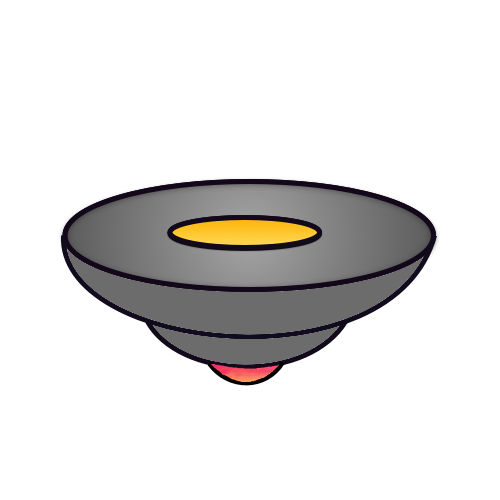
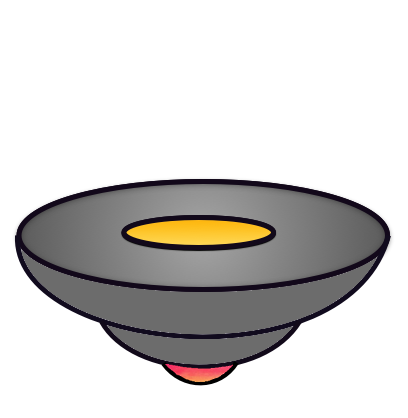
more client gameScene GUI components

Changed region(s): [[0.0294, 0.3421, 0.9706, 0.933]]

diff --git a/src/hangman/ClientFx.java b/src/hangman/ClientFx.java
@@ -11,6 +11,7 @@ import javafx.scene.control.Button;
 import javafx.scene.control.Label;
 import javafx.scene.control.TextArea;
 import javafx.scene.image.Image;
+import javafx.scene.image.ImageView;
 import javafx.scene.layout.*;
 import javafx.scene.paint.Color;
 import javafx.scene.paint.ImagePattern;
@@ -32,6 +33,7 @@ public class ClientFx extends Application {
     boolean started = false;
 
     private int numLives = 5;
+    private String word = "welcome";
     private Scene startScene, gameScene, endScene;
     private StartScene ss = new StartScene();
     private GameScene gs = new GameScene();
@@ -103,6 +105,10 @@ public class ClientFx extends Application {
     private Client createClient(String IP, int portIn, Stage primaryStage) {
         return new Client(IP, portIn, data -> {
             Platform.runLater(() -> {
+
+                if(data.toString().split(" ")[0].equals("WORD: ")){
+                    word = data.toString().split(" ")[1];
+                }
                 switch (data.toString()) {
                     case "CONNECTION":
                         ss.header.setText("CONNECTED TO SERVER");
@@ -134,6 +140,9 @@ public class ClientFx extends Application {
                         started = false;
                         primaryStage.setScene(this.startScene);
                         break;
+                    case "START":
+                        numLives = 5;
+                        primaryStage.setScene(this.gameScene);
                 }
             });
         });
@@ -257,8 +266,14 @@ public class ClientFx extends Application {
         private HBox row2;
         private HBox row3;
 
+        private HBox wordDisplay;
+
+        private VBox bottomBox;
+
         private Label spaceship;
         private ArrayList<Image> ssImageList;
+
+        private Label header;
 
         public GameScene(){
             gamePane = new BorderPane();
@@ -266,25 +281,41 @@ public class ClientFx extends Application {
             gameBackground = new Background(new BackgroundFill(new ImagePattern(gameBackgroundImage), CornerRadii.EMPTY, Insets.EMPTY));
             gamePane.setBackground(gameBackground);
             initSpaceshipImages();
+            initWordDisplay();
             initKeyboard();
-            scene = new Scene(gamePane, 900, 600);
+            this.bottomBox = new VBox(10, this.wordDisplay, this.keyboardBox);
+            gamePane.setBottom(bottomBox);
+            scene = new Scene(gamePane, 800, 600);
+        }
+
+        public void initWordDisplay(){
+            this.wordDisplay = new HBox(10);
+            for(int i = 0; i < word.length(); i++){
+                Label character = new Label(word.charAt(i)+ "");
+                character.setTextFill(Color.MIDNIGHTBLUE);
+                character.setFont(Font.font("Courier", FontWeight.EXTRA_BOLD, 33));
+                character.setAlignment(Pos.CENTER);
+                character.setPrefSize(40, 40);
+                character.setBackground(new Background(new BackgroundFill(Color.LEMONCHIFFON, new CornerRadii(5), Insets.EMPTY)));
+                this.wordDisplay.getChildren().add(character);
+            }
+            this.wordDisplay.setAlignment(Pos.CENTER);
         }
 
         public void initSpaceshipImages(){
-            spaceship = new Label();
-            spaceship.setPrefSize(300, 300);
-            spaceship.setAlignment(Pos.BOTTOM_CENTER);
-            spaceship.setPadding(new Insets(0, 0, 20, 0));
-            ssImageList = new ArrayList<>();
+            this.spaceship = new Label();
+            this.spaceship.setAlignment(Pos.BOTTOM_CENTER);
+            this.ssImageList = new ArrayList<>();
 
             for(int i = 0; i < 7; i++){
                 Image spaceShipImage = new Image("spaceship" + (i+1) + ".png");
-                ssImageList.add(spaceShipImage);
+                this.ssImageList.add(spaceShipImage);
             }
-            ImagePattern spaceshipFill = new ImagePattern(ssImageList.get((numLives-5)));
-            Background spaceshipBackground = new Background(new BackgroundFill(spaceshipFill, CornerRadii.EMPTY, Insets.EMPTY));
-            spaceship.setBackground(spaceshipBackground);
-            gamePane.setCenter(spaceship);
+            ImageView iv = new ImageView(ssImageList.get(numLives-5));
+            iv.setFitWidth(350);
+            iv.setFitHeight(350);
+            this.spaceship.setGraphic(iv);
+            gamePane.setCenter(this.spaceship);
         }
 
         public void initKeyboard(){
@@ -319,7 +350,7 @@ public class ClientFx extends Application {
             keyboardBox.setPrefSize(500, 150);
             keyboardBox.setPadding(new Insets(3,0,3,0));
             keyboardBox.setBackground(new Background(new BackgroundFill(new Color(0x19/255.0, 0x19/255.0, 0x70/255.0, .7), new CornerRadii(0), Insets.EMPTY)));
-            gamePane.setBottom(keyboardBox);
+//            gamePane.setBottom(keyboardBox);
 
         }
 

diff --git a/src/hangman/Server.java b/src/hangman/Server.java
@@ -267,10 +267,6 @@ public class Server {
 
         void startGame(){
             if(isActive){
-                for(int i = 0; i < players.size(); i++){
-                    send("START", players.get(i).clientIndex);
-                }
-
                 //*****************************************//
                 lettersGuessed = new ArrayList<>(); //index represents letter
                 for(int i = 0; i < 26; i++){ lettersGuessed.add(false); }
@@ -292,6 +288,10 @@ public class Server {
                     word = hardDictionary.get(w);
                 }
 
+                for(int i = 0; i < players.size(); i++){
+                    send("WORD: " + word, players.get(i).clientIndex);
+                    send("START", players.get(i).clientIndex);
+                }
               //  lettersGuessedInWord = new ArrayList<>(); //index represents letter
               //  for(int i = 0; i < wordLength; i++){ lettersGuessedInWord.add(false); }
                 //*****************************************//
